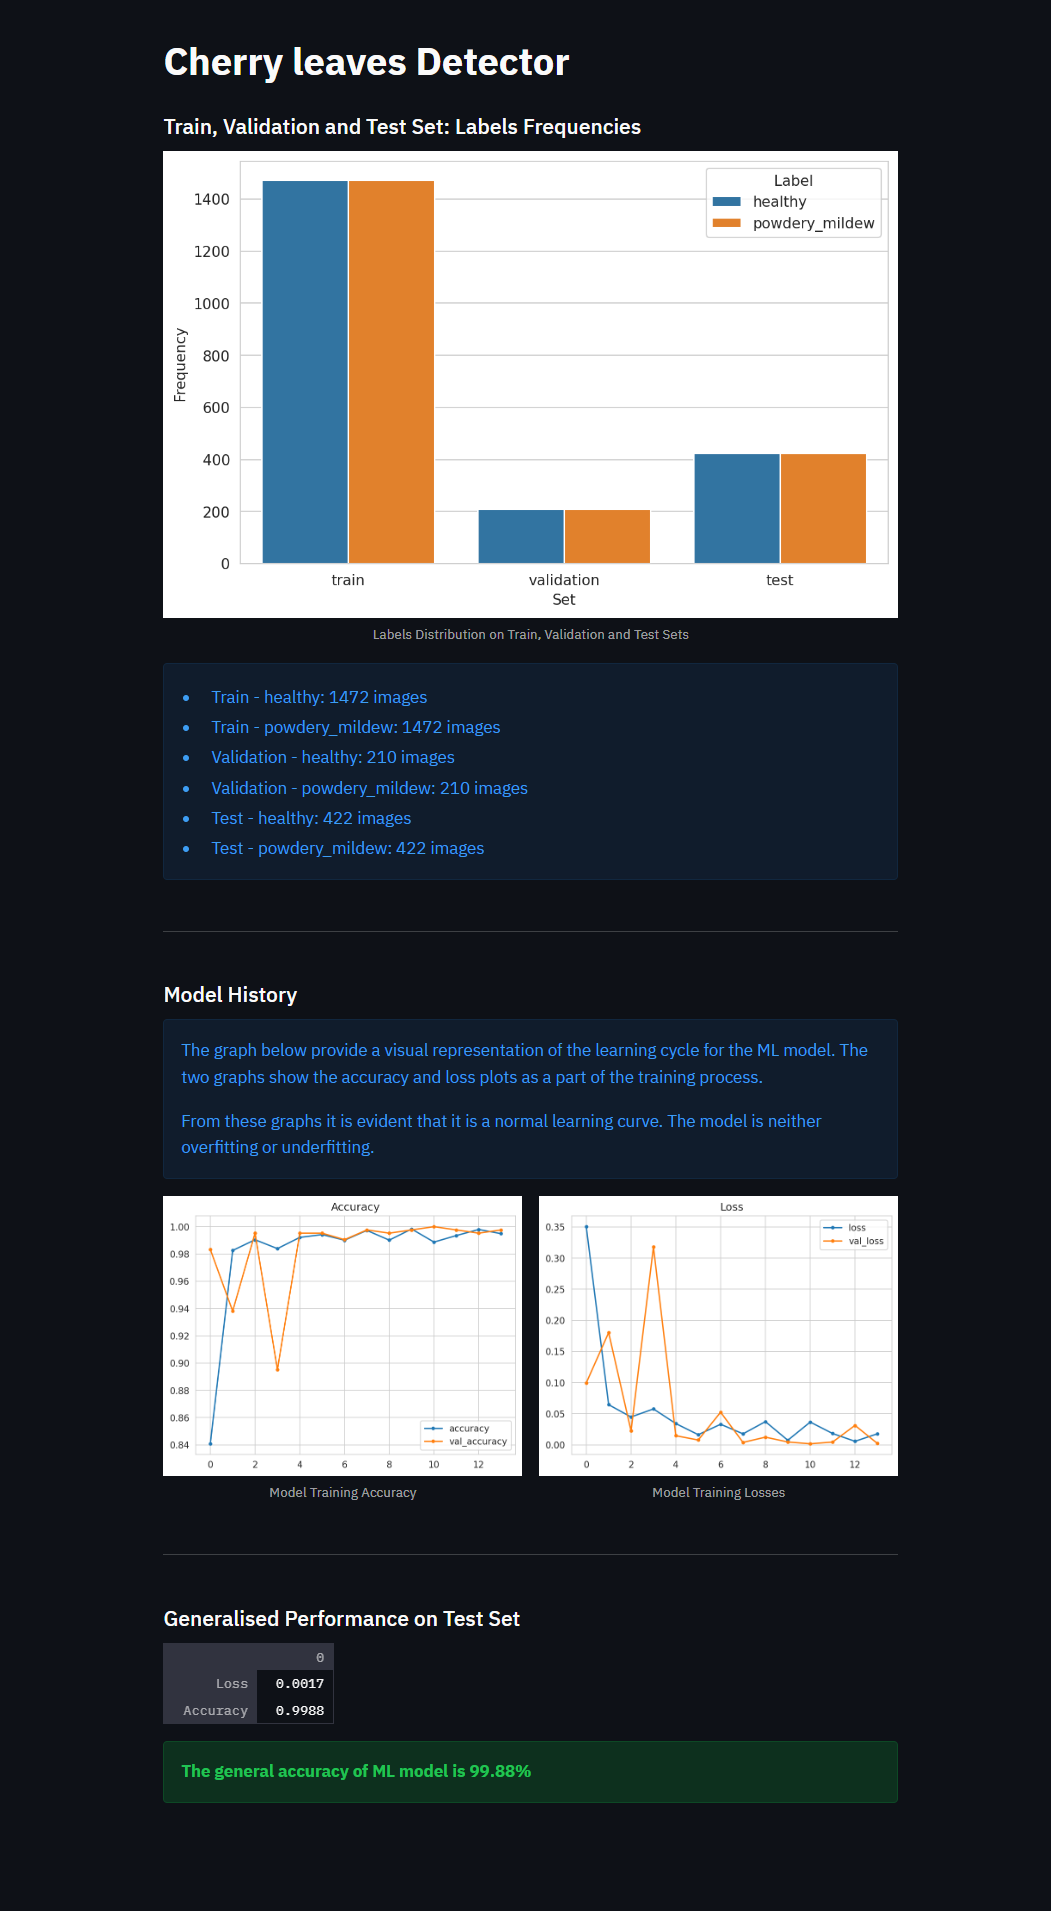
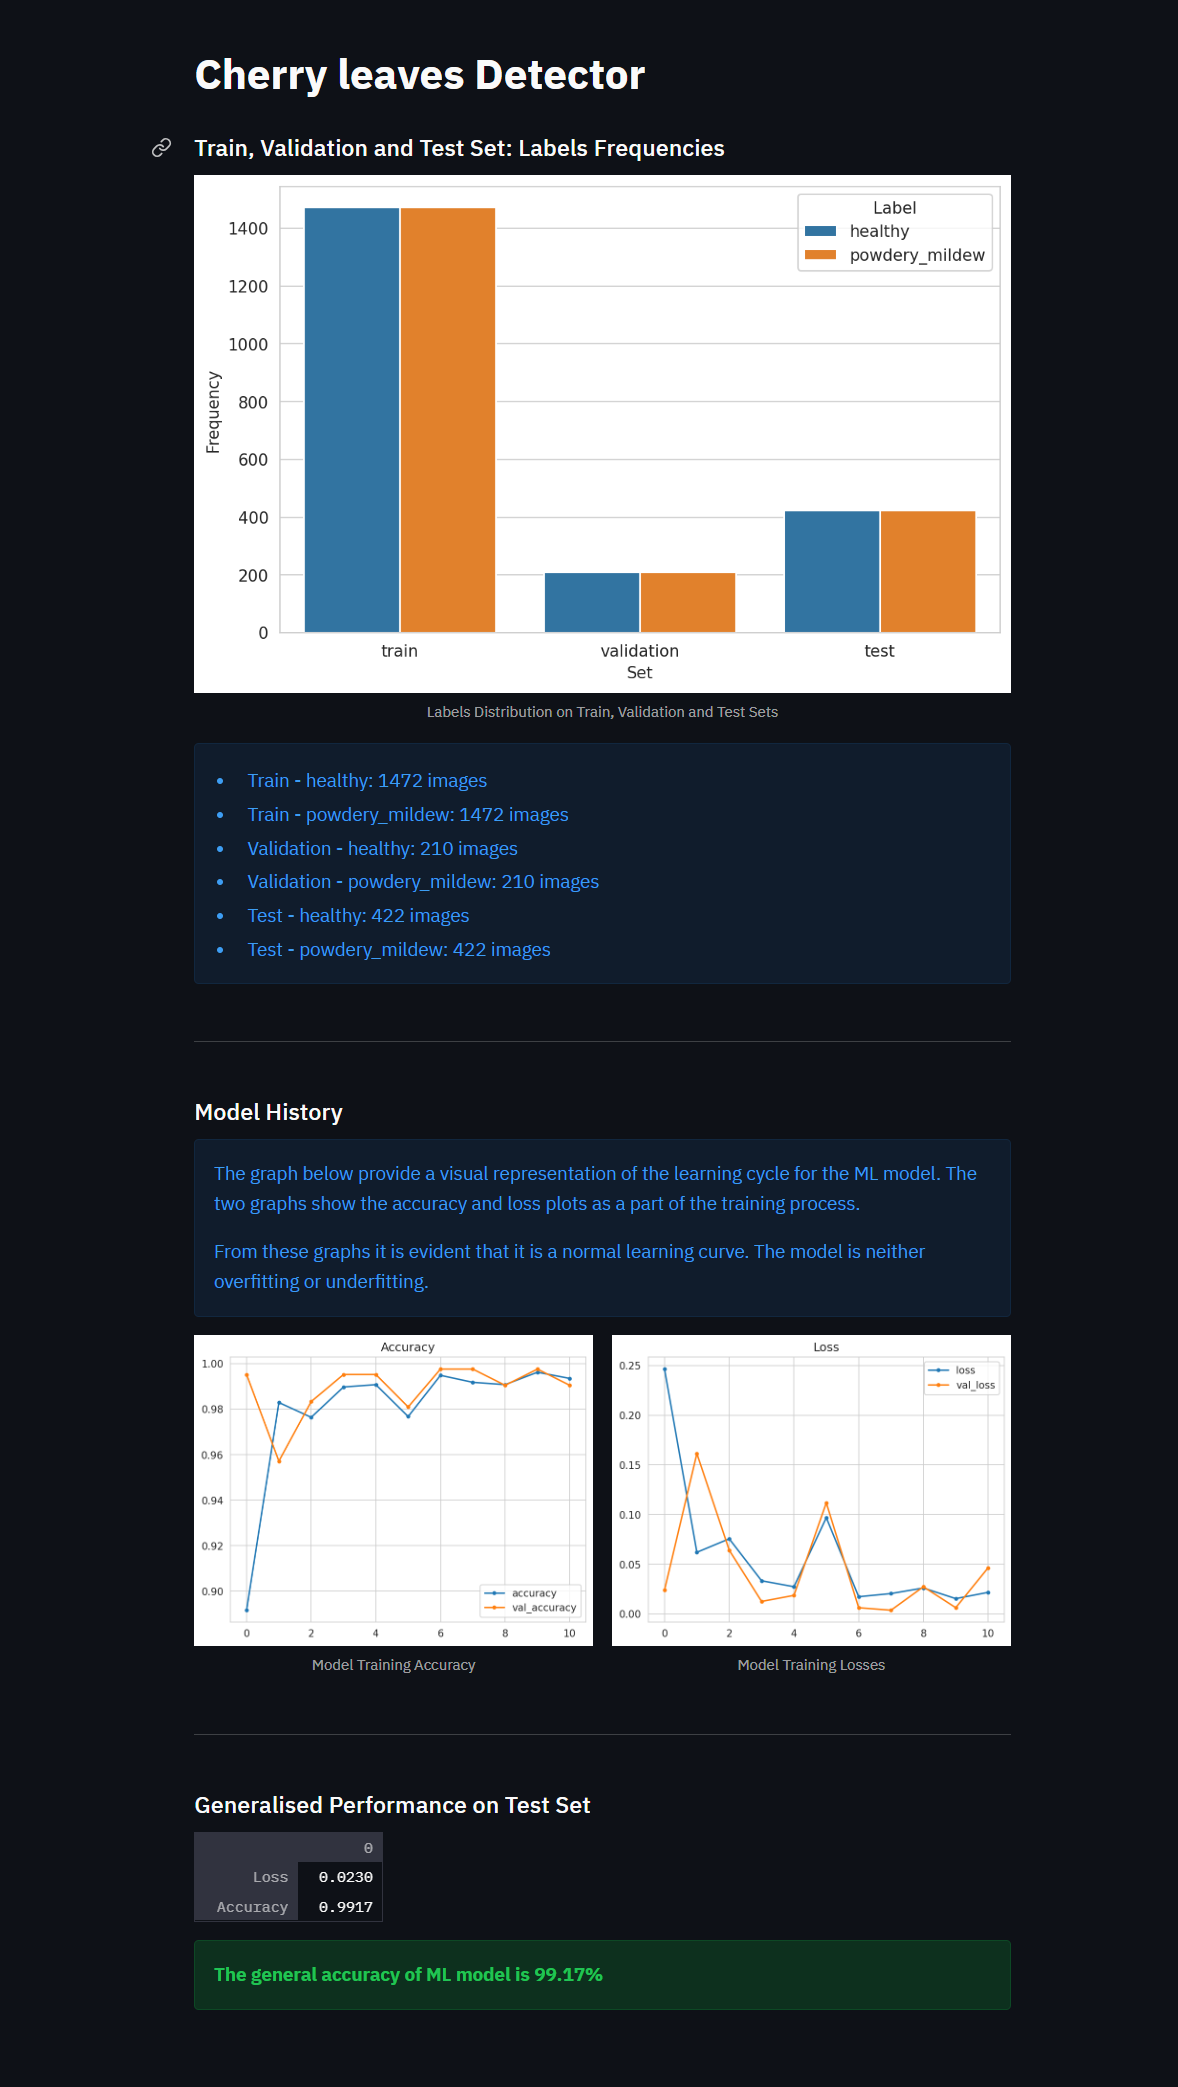
add final touch ups

Changed region(s): [[0.1522, 0.0, 0.883, 0.4631], [0.1522, 0.494, 0.883, 0.8027], [0.1522, 0.8336, 0.883, 0.988]]

diff --git a/app_pages/page_ml_performance.py b/app_pages/page_ml_performance.py
@@ -44,7 +44,7 @@ def page_ml_performance_metrics():
     st.dataframe(pd.DataFrame(load_test_evaluation(version), index=['Loss', 'Accuracy']))
 
     st.success(
-        f"**The general accuracy of ML model is 99.88%** "
+        f"**The general accuracy of ML model is 99.17%** "
     )
 
     

diff --git a/README.md b/README.md
@@ -168,9 +168,9 @@ My dashboard consists of a side navigation bar linking to 5 different pages. The
      - Download button to download table.
 
 
-![Mildew detector page]()
+![Mildew detector page](docs/detection%20page.png)
 
-![Prediction]()
+![Prediction](docs/leaf%20predictiion.png)
 
 #### Page 4: Project Hypothesis and Validation
 
@@ -202,7 +202,7 @@ The graph provide a visual representation of the learning cycle for the ML model
 
 From these graphs it is evident that it is a normal learning curve. The model is neither overfitting or underfitting.
 **Model Evaluation result**
-The general accuracy of ML model is 99.88%
+The general accuracy of ML model is 99.17%
 ![Model performance](docs/ML%20performance%20deployed.png)
 
 
